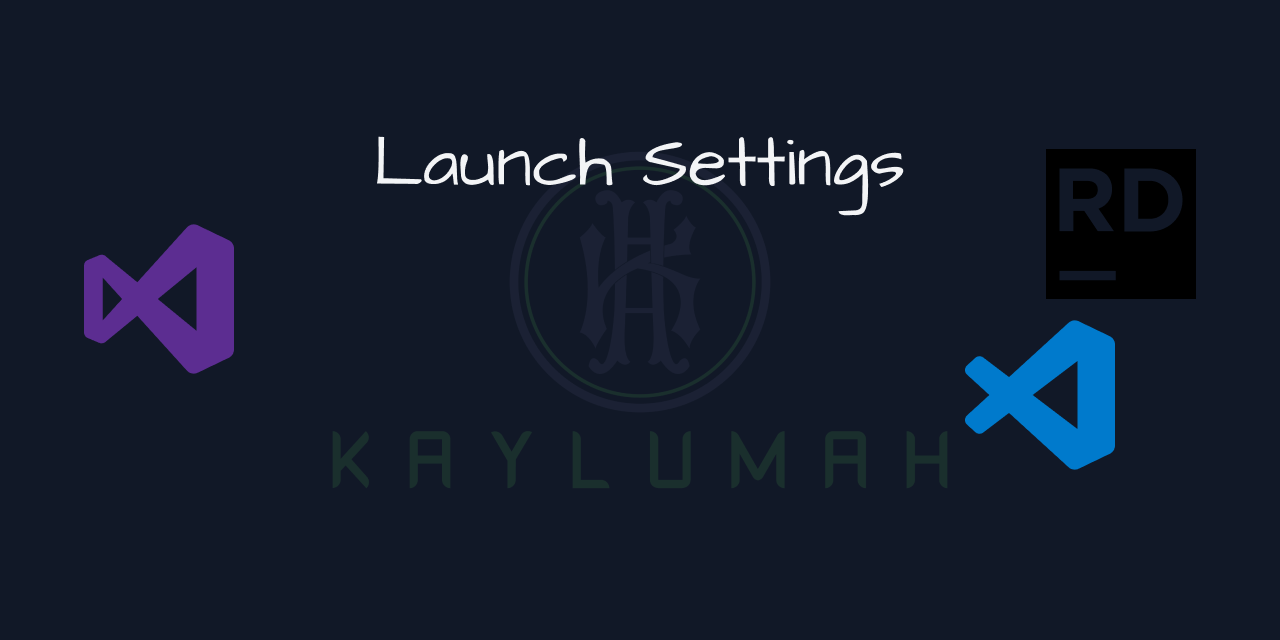
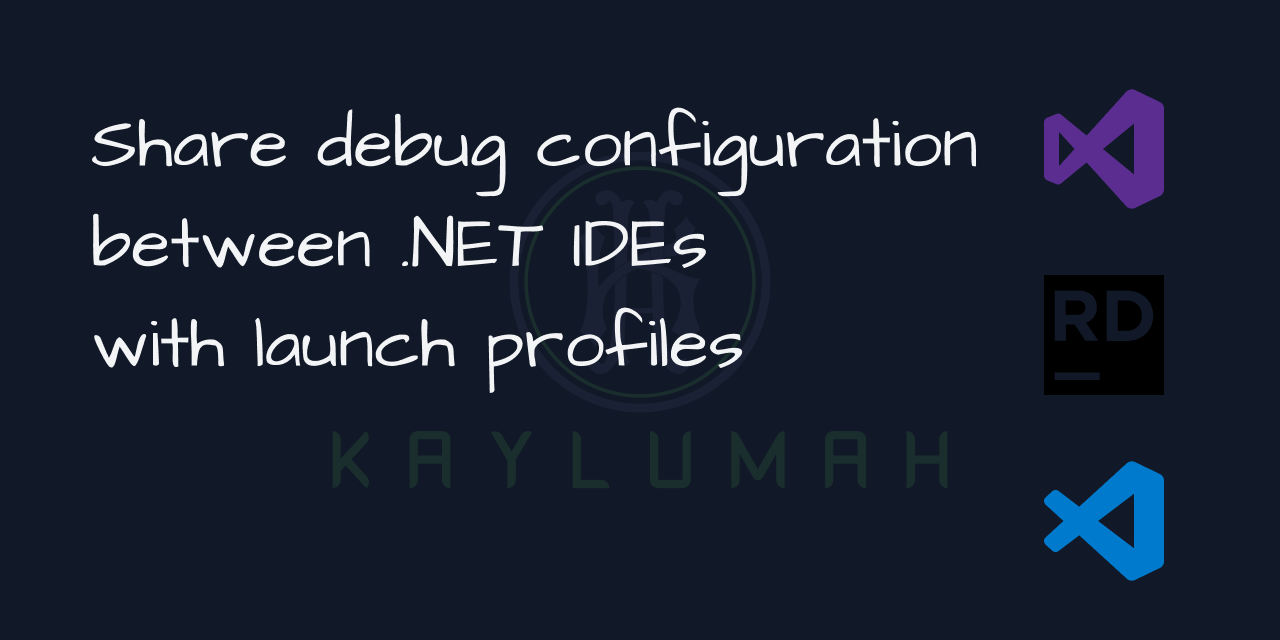
WIP

Changed region(s): [[0.0625, 0.3438, 0.5938, 0.5938], [0.75, 0.125, 0.9375, 0.9062], [0.0625, 0.1562, 0.7812, 0.3438]]

diff --git a/_site/_posts/2022-06-06-launch-settings.md b/_site/_posts/2022-06-06-launch-settings.md
@@ -1,5 +1,5 @@
 ---
-title: 'Shared debug configuration between .NET IDEs with launch profiles'
+title: 'Share debug configuration between .NET IDEs with launch profiles'
 description: 'Pick your own .NET IDE and benefit from shared developer configuration with launchSettings.json'
 image: '/assets/images/posts/20220606/launch-settings/cover_image.png'
 coverimage:
